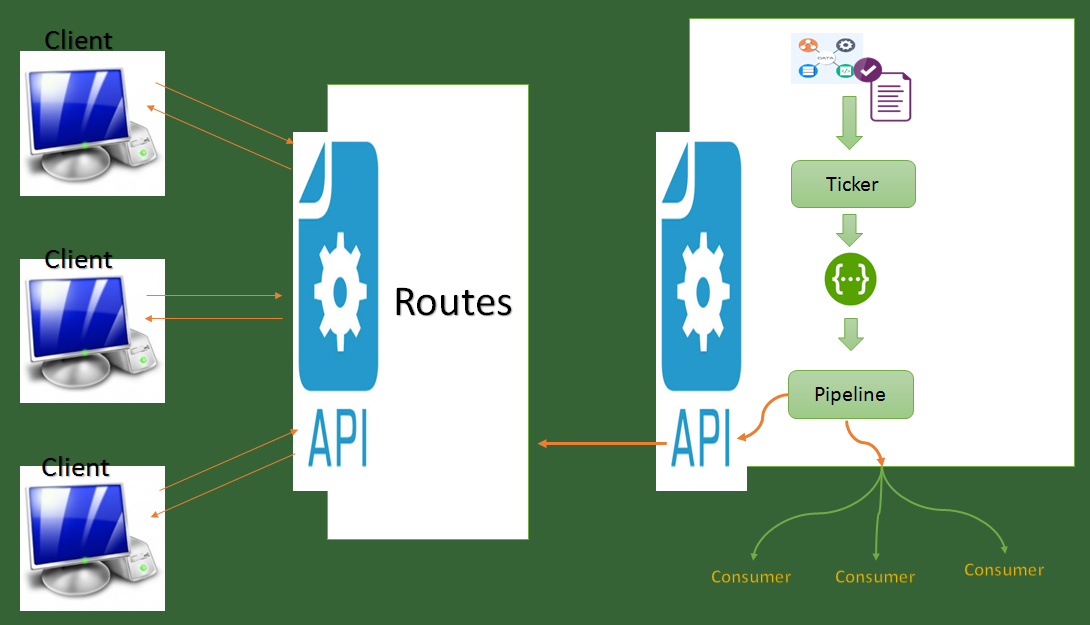
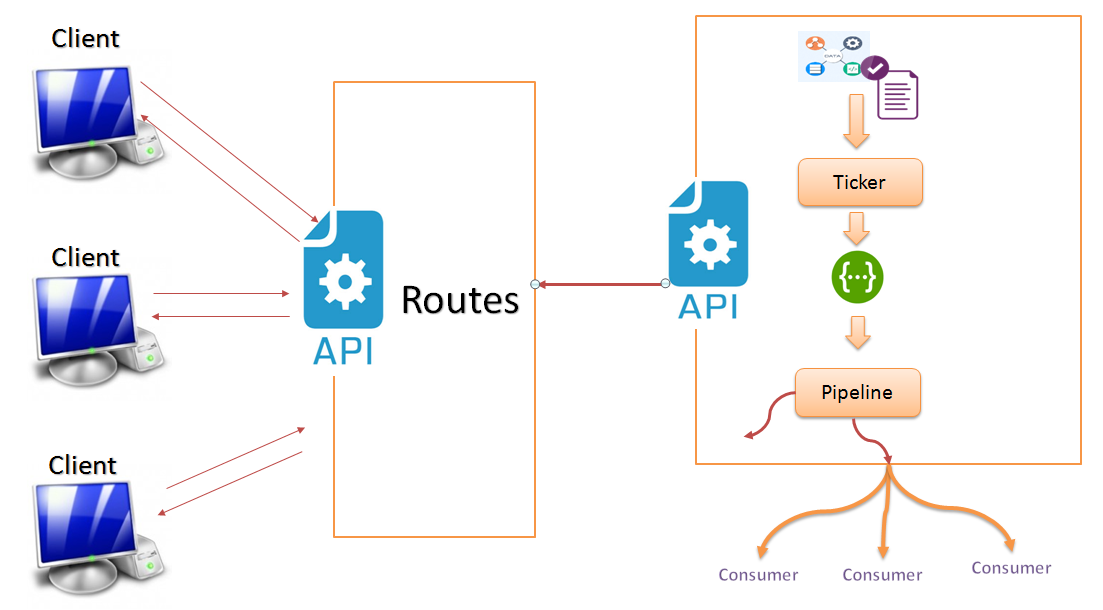
about page added

diff --git a/datamillserver/users/profile_router.js b/datamillserver/users/profile_router.js
@@ -16,8 +16,12 @@ profile_router.get('/', function(req, res) {
     console.log("error", err, "found", found)
     if (err) return handleError(err);
     //var userprofileData = new userModel();
-    console.log("User Email", found[0].email);
-    return res.send(found[0]);
+    if (found[0]) {
+      console.log("User Email", found[0].email);
+      return res.send(found[0]);
+    } else {
+      return res.status(500).send({ error: "no user found please clear cache" });
+    }
   })
 })
 module.exports = profile_router;

diff --git a/webapp/home/home.module.js b/webapp/home/home.module.js
@@ -85,6 +85,14 @@ angular.module('datamill')
           }
         }
       });
+      $stateProvider.state('datamill.about', {
+        url: '/about',
+        views: {
+          "content@": {
+            templateUrl: "/home/templates/about.html"
+          }
+        }
+      });
       $authProvider.github({
         url: '/oauth/github',
         authorizationEndpoint: 'https://github.com/login/oauth/authorize',

diff --git a/webapp/home/templates/about.html b/webapp/home/templates/about.html
@@ -1,0 +1,4 @@
+<div layout="column" layout-align="center center">
+  <img src="/assets/images/architecture.PNG">
+  <img src="/assets/images/processor.PNG">
+</div>
